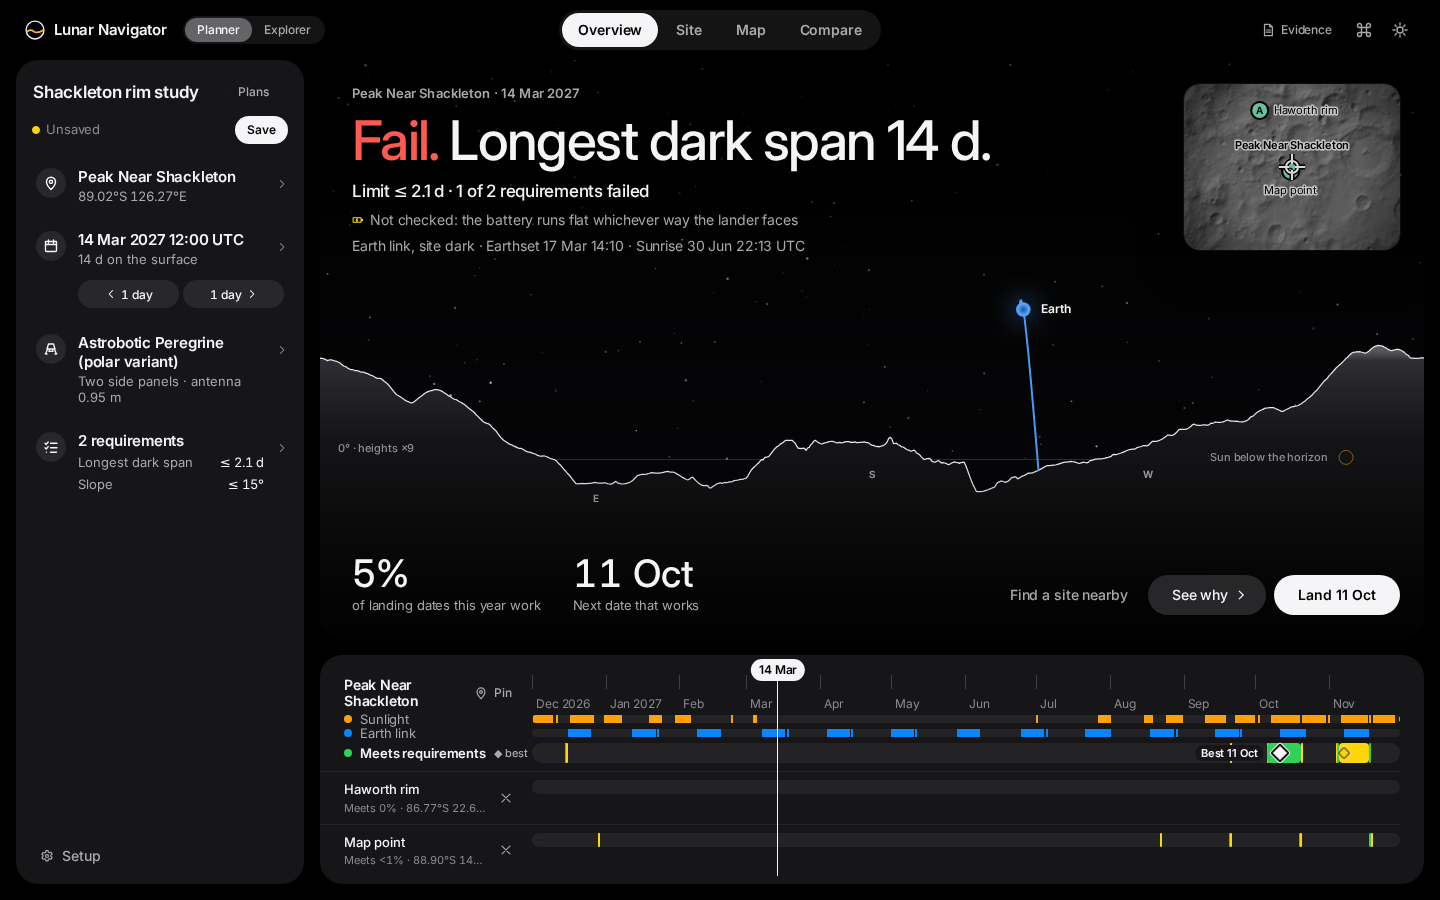
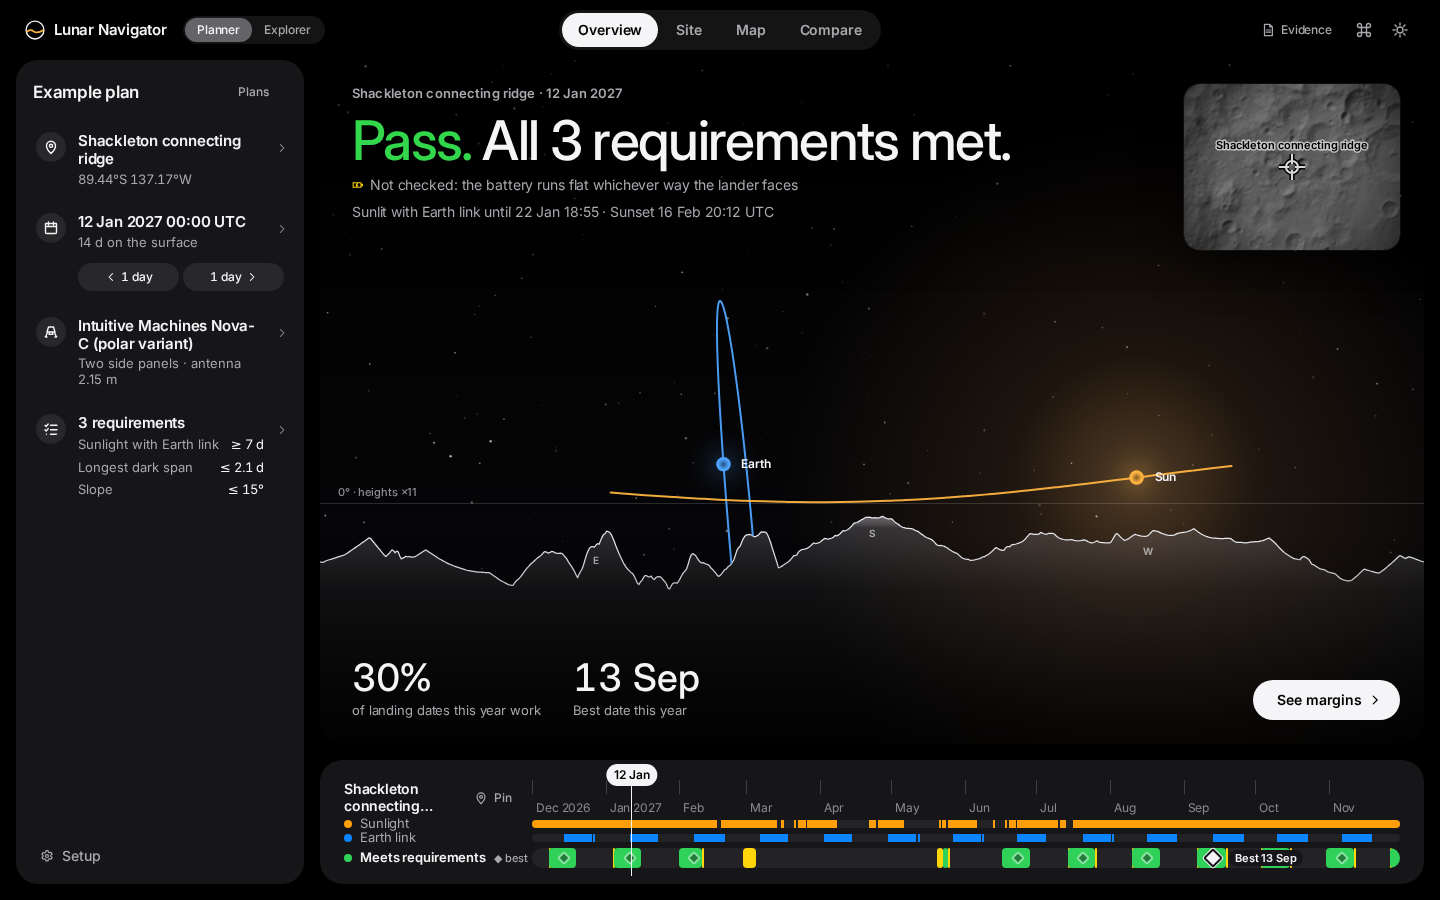
fix(compare): the works count and the site tally leave marginal dates out, as the headline does; overview screenshots from the example plan

diff --git a/web/src/workspaces/compare/Grid.tsx b/web/src/workspaces/compare/Grid.tsx
@@ -4,7 +4,7 @@ import { IconButton } from "../../components/ui/Button";
 import { Icon } from "../../components/ui/Icon";
 import { MS_HOUR } from "../../lib/time";
 import { delayLabels } from "./delays";
-import { STATE_WORD, dateText, dayText, limitingName, limitingShort, nextText, works, type SiteRef } from "./gridModel";
+import { STATE_WORD, dateText, dayText, limitingName, limitingShort, nextText, type SiteRef } from "./gridModel";
 import { BASELINE_SITE } from "./options";
 
 export interface Cell {
@@ -145,7 +145,7 @@ export function Grid({
                     </td>
                   );
                 })}
-                <td className="cmp-grid-end num">{known.length === slips.length ? `${known.filter((x) => works(x.state)).length}/${slips.length}` : ""}</td>
+                <td className="cmp-grid-end num">{known.length === slips.length ? `${known.filter((x) => x.state === "pass").length}/${slips.length}` : ""}</td>
               </tr>
             );
           })}

diff --git a/web/src/styles/viz.css b/web/src/styles/viz.css
@@ -209,4 +209,4 @@
 }
 .viz-foot { display: flex; flex-wrap: wrap; align-items: center; justify-content: space-between; gap: var(--sp-2) var(--sp-4); }
 .viz-foot > .legend { flex: 1 1 320px; min-width: 0; }
-.viz-tools { flex: none; padding: 2px; border-radius: var(--r-pill); background: var(--fill); }
+.viz-tools { flex: none; margin-left: auto; padding: 2px; border-radius: var(--r-pill); background: var(--fill); }

diff --git a/web/src/workspaces/compare/CompareWorkspace.tsx b/web/src/workspaces/compare/CompareWorkspace.tsx
@@ -117,7 +117,7 @@ function Compare() {
         if (works(row.state)) {
           ok += 1;
           if (row.state === "marginal") marginal += 1;
-          okSites.add(site.key);
+          else okSites.add(site.key);
         }
       }
     return { total, ok, marginal, okSites: okSites.size };
